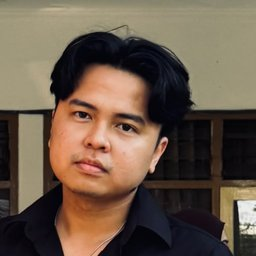
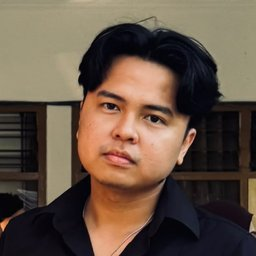
fix: latar HP kembali hitam, foto bulat di tengah
Body navy #0d1b45 di bawah lg dulu dipasang supaya bar Safari iOS tidak
jadi strip hitam di samping cahaya orb. Orb sudah dihapus (e19cb3d),
jadi halaman dan bar sama-sama #050510 dan tidak ada garis batas.
Desktop dan HP kini warnanya sama.

Foto bulat dipotong ulang dengan wajah di tengah (sebelumnya condong
ke kiri).

diff --git a/src/app/globals.css b/src/app/globals.css
@@ -43,13 +43,6 @@ body {
   -moz-osx-font-smoothing: grayscale;
 }
 
-/* Safari iOS paints its status bar + address bar with body background-color.
-   #050510 showed up as black strips next to the navy glow, so mobile gets navy.
-   Below lg only: DitherVeil (inkColor #050510) is hidden there, desktop unchanged. */
-@media (max-width: 1023px) {
-  body { background-color: #0d1b45; }
-}
-
 h1, h2, h3, h4, h5, h6 {
   font-family: var(--font-heading);
   color: var(--text-primary);
